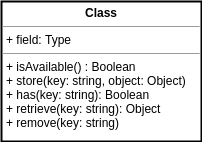
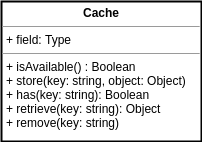
Added classes for requests and cache.

Changed region(s): [[0.3861, 0.0563, 0.5941, 0.1408]]

diff --git a/doc/manual/design/architecture.md b/doc/manual/design/architecture.md
@@ -41,7 +41,11 @@ The subscription package allows for modifying the users feeds and listing the av
 TBD
 
 ### ZeeguuRequests
+![Subscription UML](asset/ZeeguuRequests.png)
+
 The ZeeguuRequest class hides how we communicate with Zeeguu and gives both POST and GET endpoints to communicate with. Communication is handled asynchronously to force responsiveness of the application. Thus, server reply messages need to be handled by a callback method that you supply yourselves.
 
 ### Cache
+![Subscription UML](asset/Cache.png)
+
 The Cache class abstracts the implementation of storing user data locally. It allows us, if supported by the browser, to not be forced in querying zeeguu about identical data we requested shortly before. This increases responsiveness of the application whilst decreasing server workload.
